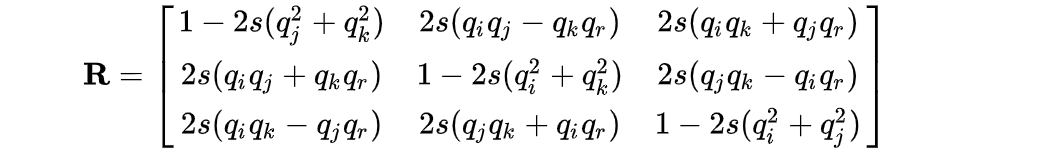
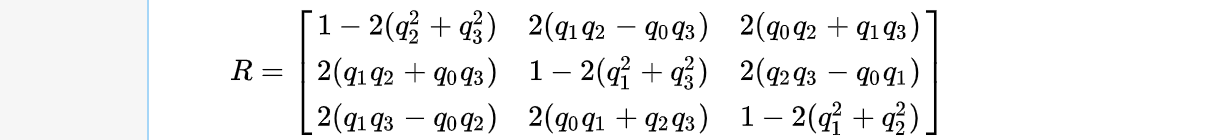
* update

Changed region(s): [[0.0608, 0.0286, 0.8509, 0.9714], [0.1519, 0.9143, 0.1823, 0.9714], [0.8205, 0.0286, 0.8509, 0.0571]]

diff --git a/blog/_posts/2018-04-04-Geometry.md b/blog/_posts/2018-04-04-Geometry.md
@@ -92,12 +92,12 @@ $$u_1G_1 + u_2G_2 + u_3 G_3 + \omega_1 G_4 + \omega_2 G_5 + \omega_3 G_6 \in se(
 
 | | Angle-axis | Quatation |
 |:--:|:--:|:--:|
-|Notation | $$\mathbf{x} = \alpha \mathbf{e}$$| $$\mathbf{q} = q_r + q_i \mathbf{i} + q_j \mathbf{j} + q_k \mathbf{k}$$ |
+|Notation | $$\mathbf{x} = \alpha \mathbf{e}$$| $$\mathbf{q} = q_0 + q_1 \mathbf{i} + q_2 \mathbf{j} + q_3 \mathbf{k}$$ |
 |dimension| 3 | 4, $$\| \mathbf{q} \| = 1$$
 |angle $$\alpha$$| $$\| \mathbf{x} \|$$ |  $$q_r = \cos(\alpha/2)$$   |
 | $$\mathbf{R}$$| $$\begin{align} & \mathbf{R} = \mathbf{I} + \sin\alpha \mathbf{K}+ (1 + \cos\alpha \mathbf{K}^2) \\ & \mathbf{K} \textrm{ is cross product matrix of } \mathbf{e} \end{align}$$ | See figure below |
 | rotate $$\mathbf{p}$$| $$\begin{align} \mathbf{p}' &= \cos\alpha \mathbf{p} + \sin\alpha (\mathbf{e} \times \mathbf{p})\\ &+ (1 - \cos\alpha)(\mathbf{e} \cdot \mathbf{p})\mathbf{e} \end{align}$$ | $$\mathbf{p}' = \mathbf{qpq}^{-1}$$ |
-| inverse | $$-\mathbf{x} = -\alpha\mathbf{e}$$| $$\mathbf{q} = \mathbf{q}_r - \mathbf{q}_i - \mathbf{q}_j - \mathbf{q}_k$$ |
+| inverse | $$-\mathbf{x} = -\alpha\mathbf{e}$$| $$q_0 - q_1 \mathbf{i} - q_2 \mathbf{j} - q_3 \mathbf{k}$$ |
 | composition | [link](https://math.stackexchange.com/questions/382760/composition-of-two-axis-angle-rotations)| $$\begin{align} &\mathbf{q}' = \mathbf{q}_2 \mathbf{q}_1 \\ & \textrm{Note it's quaternion product.} \end{align}$$ |
 
 ![dilated_conv]({{site.baseurl}}/images/quaternion2rot.png)
